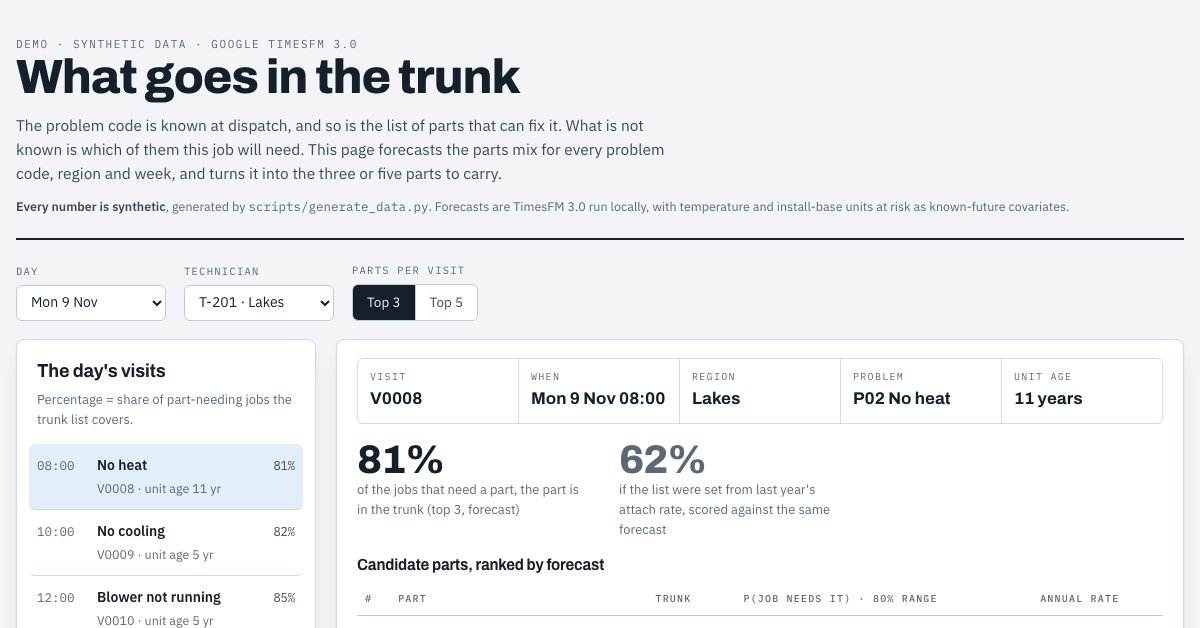
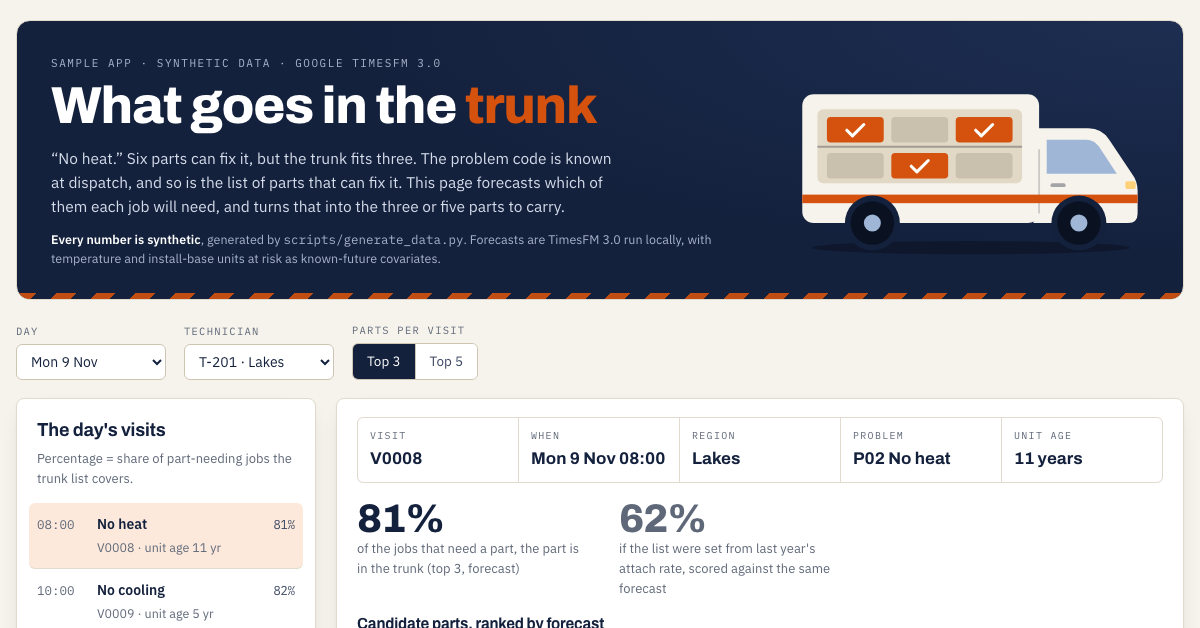
Fleet theme: navy and safety orange, van illustration in the header
Chart colours re-validated for colour-blind separation in light and dark.
New link-preview image and README screenshot.

diff --git a/index.html b/index.html
@@ -9,7 +9,7 @@
 <meta property="og:title" content="What goes in the trunk">
 <meta property="og:description" content="Six parts can fix it. The trunk fits three. A sample app that ranks the parts to carry with Google's TimesFM 3.0, on synthetic data.">
 <meta property="og:url" content="https://kannanbalakrishnan576.github.io/trunk-stock/">
-<meta property="og:image" content="https://kannanbalakrishnan576.github.io/trunk-stock/docs/og-image.png">
+<meta property="og:image" content="https://kannanbalakrishnan576.github.io/trunk-stock/docs/og-image.png?v=2">
 <meta property="og:image:width" content="1200">
 <meta property="og:image:height" content="628">
 <meta property="og:image:alt" content="The sample app: a no-heat visit with candidate parts ranked by forecast">
@@ -20,34 +20,41 @@
 <style>
 :root{
   color-scheme:light;
-  --ground:#F2F4F7; --surface:#FFFFFF; --surface-2:#E9ECF1;
-  --ink:#16202B; --ink-2:#3D4A58; --muted:#5C6874;
-  --line:#D5DBE3; --line-2:#C2CAD4; --grid:#E6EAEF;
-  --pick:#2a78d6; --pick-wash:#E3EEFB; --context:#B7C0CB;
-  --s1:#2a78d6; --s2:#eb6834; --s3:#1baf7a;
-  --accent:#9A5504;
-  --shadow:0 1px 2px rgba(22,32,43,.05),0 8px 24px -12px rgba(22,32,43,.18);
+  --ground:#F6F3EC; --surface:#FFFFFF; --surface-2:#EFEAE0;
+  --ink:#14213D; --ink-2:#3A4660; --muted:#5F6878;
+  --line:#E2DBCD; --line-2:#CFC5B3; --grid:#ECE6DA;
+  --band:#14213D; --band-2:#1D2E52; --band-ink:#FFFFFF; --band-ink-2:#D5DCEA; --band-muted:#A9B4CB;
+  --van-body:#F6F3EC; --van-glass:#9FB6D6; --van-inside:#E2D8C6; --van-wheel:#0A1222; --van-box:#C9C0AE;
+  --pick:#D4520E; --pick-strong:#B5440A; --pick-text:#FFFFFF; --pick-wash:#FCE9DC; --context:#C9C0AE;
+  --s1:#D4520E; --s2:#2B5C9E; --s3:#138A72;
+  --accent:#2B5C9E;
+  --seg-on:#14213D; --seg-on-ink:#FFFFFF;
+  --shadow:0 1px 2px rgba(20,33,61,.05),0 8px 24px -12px rgba(20,33,61,.20);
 }
 @media (prefers-color-scheme:dark){
   :root:where(:not([data-theme="light"])){
     color-scheme:dark;
-    --ground:#121A22; --surface:#1A242E; --surface-2:#222E3A;
-    --ink:#E8ECF1; --ink-2:#BCC6D1; --muted:#8A97A5;
-    --line:#2C3945; --line-2:#3A4956; --grid:#25313C;
-    --pick:#3987e5; --pick-wash:#1B2A3C; --context:#4A5866;
-    --s1:#3987e5; --s2:#d95926; --s3:#199e70;
-    --accent:#E8A33D;
+    --ground:#0E1525; --surface:#17213A; --surface-2:#1F2B47;
+    --ink:#EEF1F6; --ink-2:#C3CBDA; --muted:#8D97AB;
+    --line:#27344F; --line-2:#34425F; --grid:#212D49;
+    --band:#0A1120; --band-2:#16213B; --band-ink:#FFFFFF; --band-ink-2:#D5DCEA; --band-muted:#94A0B8;
+    --van-body:#E9E4DA; --van-glass:#7F99BD; --van-inside:#CFC4B0; --van-wheel:#05080F; --van-box:#9E9686;
+    --pick:#EC6420; --pick-strong:#EC6420; --pick-text:#1A0D05; --pick-wash:#3A2216; --context:#4A5672;
+    --s1:#EC6420; --s2:#4F86D2; --s3:#1C9A7E;
+    --accent:#6F9BDB; --seg-on:#EC6420; --seg-on-ink:#1A0D05;
     --shadow:0 1px 2px rgba(0,0,0,.3),0 8px 24px -12px rgba(0,0,0,.6);
   }
 }
 :root[data-theme="dark"]{
   color-scheme:dark;
-  --ground:#121A22; --surface:#1A242E; --surface-2:#222E3A;
-  --ink:#E8ECF1; --ink-2:#BCC6D1; --muted:#8A97A5;
-  --line:#2C3945; --line-2:#3A4956; --grid:#25313C;
-  --pick:#3987e5; --pick-wash:#1B2A3C; --context:#4A5866;
-  --s1:#3987e5; --s2:#d95926; --s3:#199e70;
-  --accent:#E8A33D;
+  --ground:#0E1525; --surface:#17213A; --surface-2:#1F2B47;
+  --ink:#EEF1F6; --ink-2:#C3CBDA; --muted:#8D97AB;
+  --line:#27344F; --line-2:#34425F; --grid:#212D49;
+  --band:#0A1120; --band-2:#16213B; --band-ink:#FFFFFF; --band-ink-2:#D5DCEA; --band-muted:#94A0B8;
+  --van-body:#E9E4DA; --van-glass:#7F99BD; --van-inside:#CFC4B0; --van-wheel:#05080F; --van-box:#9E9686;
+  --pick:#EC6420; --pick-strong:#EC6420; --pick-text:#1A0D05; --pick-wash:#3A2216; --context:#4A5672;
+  --s1:#EC6420; --s2:#4F86D2; --s3:#1C9A7E;
+  --accent:#6F9BDB; --seg-on:#EC6420; --seg-on-ink:#1A0D05;
   --shadow:0 1px 2px rgba(0,0,0,.3),0 8px 24px -12px rgba(0,0,0,.6);
 }
 *{box-sizing:border-box}
@@ -59,9 +66,20 @@ p{margin:0}
 .mono,.eyebrow,.k{font-family:"IBM Plex Mono",ui-monospace,monospace}
 .eyebrow{font-size:11px;letter-spacing:.14em;text-transform:uppercase;color:var(--muted)}
 .shell{max-width:1240px;margin:0 auto;padding:0 16px 72px}
-header{padding:36px 0 22px;border-bottom:2px solid var(--ink)}
-header h1{font-size:clamp(30px,5vw,48px);font-weight:800;letter-spacing:-.025em;line-height:1}
-header .sub{color:var(--ink-2);max-width:70ch;margin-top:12px;font-size:15.5px}
+header{margin-top:20px;display:grid;grid-template-columns:minmax(0,1fr) 360px;gap:28px;align-items:center;
+  background:radial-gradient(120% 140% at 100% 0%,var(--band-2) 0%,var(--band) 60%);color:var(--band-ink);
+  border-radius:14px;padding:34px 34px 30px;overflow:hidden;position:relative;border:1px solid var(--line)}
+header::after{content:"";position:absolute;left:0;right:0;bottom:0;height:6px;
+  background:repeating-linear-gradient(135deg,var(--pick) 0 14px,var(--band) 14px 28px);opacity:.9}
+header .eyebrow{color:var(--band-muted)}
+header h1{font-size:clamp(32px,5vw,52px);font-weight:800;letter-spacing:-.025em;line-height:1;margin-top:8px;color:var(--band-ink)}
+header h1 em{font-style:normal;color:var(--pick)}
+header .sub{color:var(--band-ink-2);max-width:62ch;margin-top:14px;font-size:15.5px}
+header .note{color:var(--band-muted)}
+header .note b{color:var(--band-ink)}
+.van{width:100%;height:auto;display:block}
+@media(max-width:820px){header{grid-template-columns:1fr;padding:24px 20px 26px;gap:12px}
+  .van{max-width:300px;order:-1;margin:0 auto -4px}}
 .note{margin-top:12px;font-size:12.5px;color:var(--muted)}
 .note b{color:var(--ink-2)}
 
@@ -72,7 +90,7 @@ select{font:inherit;font-size:14px;padding:7px 10px;border:1px solid var(--line-
 .seg{display:inline-flex;border:1px solid var(--line-2);border-radius:6px;overflow:hidden}
 .seg button{font:inherit;font-size:13.5px;padding:7px 14px;border:0;background:var(--surface);color:var(--ink-2);cursor:pointer}
 .seg button+button{border-left:1px solid var(--line-2)}
-.seg button[aria-pressed="true"]{background:var(--ink);color:var(--ground)}
+.seg button[aria-pressed="true"]{background:var(--seg-on);color:var(--seg-on-ink)}
 select:focus-visible,.seg button:focus-visible,.visit:focus-visible{outline:2px solid var(--pick);outline-offset:2px}
 
 .layout{display:grid;grid-template-columns:300px minmax(0,1fr);gap:20px;align-items:start}
@@ -113,7 +131,7 @@ td.num{font-family:"IBM Plex Mono",monospace;font-variant-numeric:tabular-nums;t
 .parts .nm{color:var(--ink);font-weight:600}
 .parts .id{font-family:"IBM Plex Mono",monospace;font-size:11.5px;color:var(--muted)}
 .tag{display:inline-block;font-family:"IBM Plex Mono",monospace;font-size:10px;letter-spacing:.08em;text-transform:uppercase;padding:2px 7px;border-radius:3px;font-weight:600;white-space:nowrap}
-.tag.in{background:var(--pick);color:#fff}
+.tag.in{background:var(--pick-strong);color:var(--pick-text)}
 .tag.out{background:var(--surface-2);color:var(--muted)}
 .diff{font-size:12px;color:var(--accent);font-weight:600}
 .tbl-wrap{overflow-x:auto}
@@ -144,15 +162,33 @@ footer a{color:var(--pick)}
 <body>
 <div class="shell">
 <header>
-  <div class="eyebrow">Demo &middot; synthetic data &middot; Google TimesFM 3.0</div>
-  <h1>What goes in the trunk</h1>
-  <p class="sub">The problem code is known at dispatch, and so is the list of parts that can
-  fix it. What is not known is which of them this job will need. This page forecasts the
-  parts mix for every problem code, region and week, and turns it into the
-  three or five parts to carry.</p>
-  <p class="note"><b>Every number is synthetic</b>, generated by
-  <span class="mono">scripts/generate_data.py</span>. Forecasts are TimesFM 3.0 run locally,
-  with temperature and install-base units at risk as known-future covariates.</p>
+  <div>
+    <div class="eyebrow">Sample app &middot; synthetic data &middot; Google TimesFM 3.0</div>
+    <h1>What goes in the <em>trunk</em></h1>
+    <p class="sub">&ldquo;No heat.&rdquo; Six parts can fix it, but the trunk fits three. The problem code
+    is known at dispatch, and so is the list of parts that can fix it. This page forecasts which of them
+    each job will need, and turns that into the three or five parts to carry.</p>
+    <p class="note"><b>Every number is synthetic</b>, generated by
+    <span class="mono">scripts/generate_data.py</span>. Forecasts are TimesFM 3.0 run locally,
+    with temperature and install-base units at risk as known-future covariates.</p>
+  </div>
+  <svg class="van" viewBox="0 0 380 210" role="img" aria-label="A service van with six candidate parts on its shelves. Three are highlighted to carry.">
+    <ellipse cx="192" cy="196" rx="168" ry="7" fill="#000" opacity=".28"/>
+    <rect x="14" y="34" width="250" height="136" rx="12" fill="var(--van-body)"/>
+    <path d="M258 70H316Q330 70 338 82L362 118Q368 126 368 136V160Q368 170 358 170H258Z" fill="var(--van-body)"/>
+    <path d="M272 82H314Q322 82 327 89L346 118H272Z" fill="var(--van-glass)"/>
+    <path d="M264 92V160" stroke="var(--van-wheel)" stroke-opacity=".18" stroke-width="2"/>
+    <rect x="276" y="128" width="16" height="4" rx="2" fill="var(--van-wheel)" opacity=".35"/>
+    <rect x="14" y="140" width="354" height="9" fill="var(--pick)"/>
+    <rect x="355" y="126" width="11" height="8" rx="2" fill="#FFD27A"/>
+    <rect x="30" y="50" width="216" height="78" rx="6" fill="var(--van-inside)"/>
+    <path d="M30 89.5H246" stroke="var(--van-wheel)" stroke-opacity=".3" stroke-width="2"/>
+    <rect x="40" y="58" width="60" height="27" rx="4" fill="var(--pick)"/><path d="M61 72 l6 6 l12 -12" fill="none" stroke="var(--pick-text)" stroke-width="3.2" stroke-linecap="round" stroke-linejoin="round"/><rect x="108" y="58" width="60" height="27" rx="4" fill="var(--van-box)"/><rect x="176" y="58" width="60" height="27" rx="4" fill="var(--pick)"/><path d="M197 72 l6 6 l12 -12" fill="none" stroke="var(--pick-text)" stroke-width="3.2" stroke-linecap="round" stroke-linejoin="round"/><rect x="40" y="96" width="60" height="27" rx="4" fill="var(--van-box)"/><rect x="108" y="96" width="60" height="27" rx="4" fill="var(--pick)"/><path d="M129 110 l6 6 l12 -12" fill="none" stroke="var(--pick-text)" stroke-width="3.2" stroke-linecap="round" stroke-linejoin="round"/><rect x="176" y="96" width="60" height="27" rx="4" fill="var(--van-box)"/>
+    <circle cx="88" cy="170" r="29" fill="var(--band)"/>
+    <circle cx="306" cy="170" r="29" fill="var(--band)"/>
+    <circle cx="88" cy="170" r="23" fill="var(--van-wheel)"/><circle cx="88" cy="170" r="9" fill="var(--van-glass)"/>
+    <circle cx="306" cy="170" r="23" fill="var(--van-wheel)"/><circle cx="306" cy="170" r="9" fill="var(--van-glass)"/>
+  </svg>
 </header>
 
 <div class="controls">
